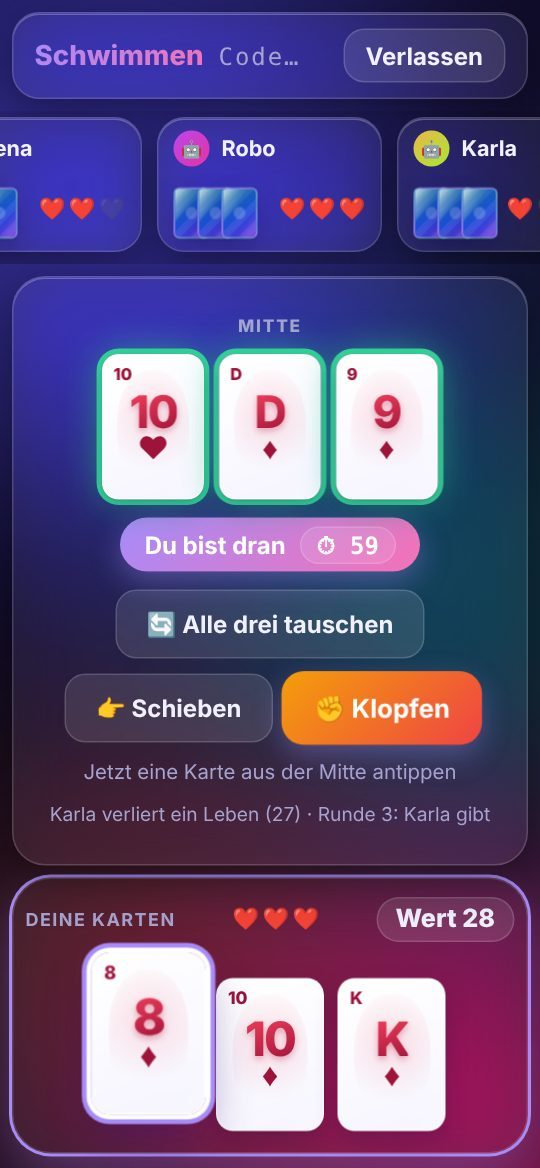
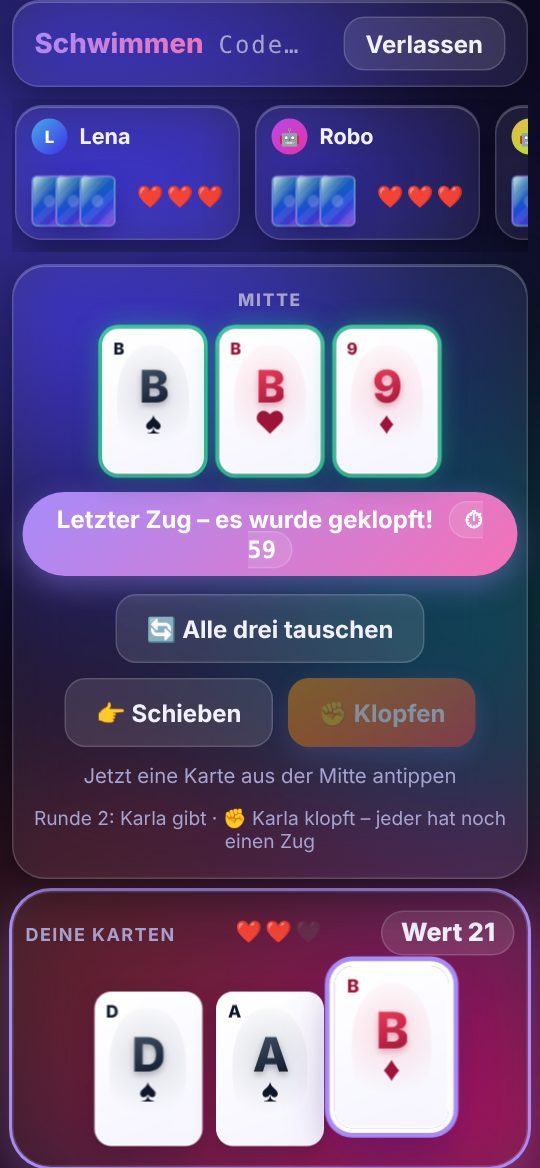
Spieleabend 3.5.2: Schwimmen player strip no longer cut off on phones
On narrow screens the opponents strip was wider than the screen and got
centred, so the first player card was cut off on the left and could not
be scrolled to. It is now limited to the screen width and scrolls from
the left. The README picture is replaced with one showing the fix.

Claude-Session: https://claude.ai/code/session_01WZ5YYnNazaZG1DJYRdXNNy

diff --git a/spieleabend/app/static/schwimmen/index.html b/spieleabend/app/static/schwimmen/index.html
@@ -87,6 +87,9 @@
     body.tv .log { font-size: clamp(.9rem, 1.3vw, 1.4rem); max-width: none; }
     body.tv .midlabel { font-size: clamp(.9rem, 1.2vw, 1.4rem); }
     body:not(.tv) .topbar { order: -2; } body:not(.tv) .opponents { order: -1; }
+    /* never wider than the screen: with several players the strip scrolls from the left instead of
+       being centred and cut off on both sides */
+    body:not(.tv) .opponents { align-self: stretch; width: 100%; max-width: 100%; min-width: 0; box-sizing: border-box; }
     body.tv .roundpanel { max-width: 680px !important; font-size: 1.3rem; }
     body.tv .rtitle { font-size: 2.2rem; }
     .tvcode2 { display: none; }

diff --git a/spieleabend/CHANGELOG.md b/spieleabend/CHANGELOG.md
@@ -1,5 +1,10 @@
 # Changelog
 
+## 3.5.2
+
+- Schwimmen: Auf schmalen Handys ragte die Spielerleiste oben links aus dem Bild (der erste Name
+  war abgeschnitten). Sie beginnt jetzt am linken Rand und lässt sich seitlich wischen.
+
 ## 3.5.1
 
 - Startseite: Beim Filtern verloren einige Spielbilder Schatten und Farbverläufe (z. B. bei
